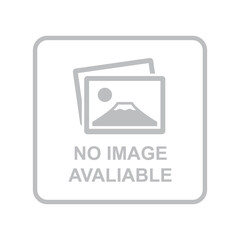
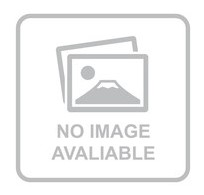
Chore: optimize product image lazy load

Changed region(s): [[0.0588, 0.0615, 0.9412, 0.9538], [0.4118, 0.4615, 0.4412, 0.4923]]

diff --git a/src/modules/product/ProductImage.tsx b/src/modules/product/ProductImage.tsx
@@ -1,5 +1,4 @@
 import { Image } from "components/image";
-import { noProductFound } from "constants/global";
 import classNames from "utils/className";
 
 interface ProductImageProps {
@@ -8,14 +7,7 @@ interface ProductImageProps {
 }
 
 const ProductImage = ({ imageUrl, className }: ProductImageProps) => {
-  return (
-    <Image
-      src={imageUrl}
-      alt='product'
-      className={classNames("aspect-square", className)}
-      imageError={noProductFound}
-    />
-  );
+  return <Image src={imageUrl} alt='product' className={classNames("aspect-square", className)} />;
 };
 
 ProductImage.defaultProps = {

diff --git a/src/layouts/Footer.tsx b/src/layouts/Footer.tsx
@@ -40,7 +40,7 @@ const Footer = () => {
               </ul>
             </div>
             <div>
-              <h3 className='text-[#000000de] font-semibold'>CHĂM SÓC KHÁCH HÀNG</h3>
+              <h3 className='text-[#000000de] font-semibold'>VỀ SHOPBEE</h3>
               <ul className='flex flex-col mt-5 gap-y-3'>
                 {abouts.map((item) => (
                   <li key={item} className='cursor-pointer'>

diff --git a/src/layouts/LayoutDashboard.tsx b/src/layouts/LayoutDashboard.tsx
@@ -8,7 +8,7 @@ const LayoutDashboard = () => {
       <main className='px-[15px] pt-6 lg:p-0'>
         <div className='flex flex-col gap-6 lg:flex-row'>
           <DashboardSidebar />
-          <div className='flex-1 lg:mt-6'>
+          <div className='flex-1 lg:mt-6 lg:mr-6'>
             <Outlet />
           </div>
         </div>

diff --git a/src/assets/styles/index.scss b/src/assets/styles/index.scss
@@ -247,3 +247,6 @@
 .section-dotted {
   @apply border-dotted border border-[#00000017] bg-[#fff] p-4;
 }
+.lazy-load-image-background {
+  flex-shrink: 0;
+}
